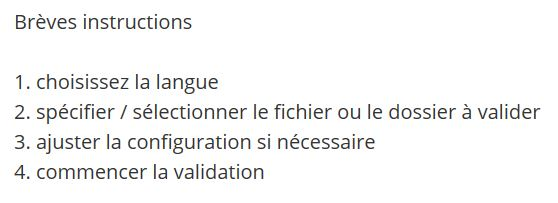
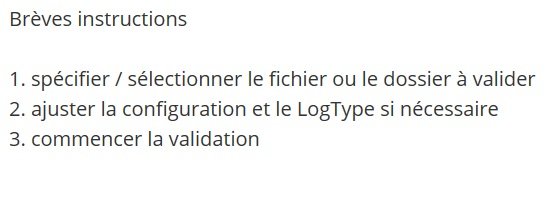
Prep KOST-Val 2.x
=================
- logType
- config
- siard
- JavaFX Gui (Prototyp)
- bug-fix

diff --git a/KOST-Val/src/main/java/ch/kostceco/tools/kostval/application.css b/KOST-Val/src/main/java/ch/kostceco/tools/kostval/application.css
@@ -21,7 +21,13 @@
 	-fx-border-color: LightGray ;
 	-fx-border-radius: 5;
 }
-
+.choice-box .menu-item:focused {
+  -fx-background-color: LimeGreen ;
+}
+.choice-box .context-menu {
+	-fx-mark-color: LimeGreen ;
+    -fx-background-color: LightGray ;
+}
 #wbv {
 	-fx-background-color: LightGray ;
 }

diff --git a/KOST-Val/src/main/java/ch/kostceco/tools/kostval/validation/modulesiard/impl/ValidationCheaderModuleImpl.java b/KOST-Val/src/main/java/ch/kostceco/tools/kostval/validation/modulesiard/impl/ValidationCheaderModuleImpl.java
@@ -61,6 +61,7 @@ public class ValidationCheaderModuleImpl extends ValidationModuleImpl
 
 	public static String NEWLINE = System.getProperty( "line.separator" );
 
+	@SuppressWarnings("resource")
 	@Override
 	public boolean validate( File valDatei, File directoryOfLogfile, Map<String, String> configMap,
 			Locale locale ) throws ValidationCheaderException
@@ -74,6 +75,17 @@ public class ValidationCheaderModuleImpl extends ValidationModuleImpl
 			showOnWork = true;
 			System.out.print( "C    " );
 			System.out.print( "\b\b\b\b\b" );
+		}
+
+		boolean siard10 = false;
+		boolean siard21 = false;
+		String siard10St = configMap.get( "siard10" );
+		if ( siard10St.equals( "1.0" ) ) {
+			siard10 = true;
+		}
+		String siard21St = configMap.get( "siard21" );
+		if ( siard21St.equals( "2.1" ) ) {
+			siard21 = true;
 		}
 
 		boolean result = true;
@@ -239,14 +251,28 @@ public class ValidationCheaderModuleImpl extends ValidationModuleImpl
 			Boolean version2 = FileUtils.readFileToString( metadataXml, "ISO-8859-1" )
 					.contains( "http://www.bar.admin.ch/xmlns/siard/2/metadata.xsd" );
 			if ( version1 ) {
-				getMessageService().logError(
-						getTextResourceService().getText( locale, MESSAGE_FORMATVALIDATION_VL, "v1.0" ) );
-			} else if ( version2 ) {
-				File versionDir = new File( pathToWorkDir2 + File.separator + "header" + File.separator
-						+ "siardversion" + File.separator + "2.1" );
-				if ( versionDir.exists() ) {
+				if ( siard10 ) {
 					getMessageService().logError(
-							getTextResourceService().getText( locale, MESSAGE_FORMATVALIDATION_VL, "v2.1" ) );
+							getTextResourceService().getText( locale, MESSAGE_FORMATVALIDATION_VL, "v1.0" ) );
+				} else {
+					getMessageService().logError( getTextResourceService().getText( locale,
+							MESSAGE_XML_MODUL_C_SIARD )
+							+ getTextResourceService().getText( locale, MESSAGE_XML_C_INVALID_VERSION, "1.0" ) );
+					return false;
+				}
+			} else if ( version2 ) {
+				if ( siard21 ) {
+					File versionDir = new File( pathToWorkDir2 + File.separator + "header" + File.separator
+							+ "siardversion" + File.separator + "2.1" );
+					if ( versionDir.exists() ) {
+						getMessageService().logError(
+								getTextResourceService().getText( locale, MESSAGE_FORMATVALIDATION_VL, "v2.1" ) );
+					}
+				} else {
+					getMessageService().logError( getTextResourceService().getText( locale,
+							MESSAGE_XML_MODUL_C_SIARD )
+							+ getTextResourceService().getText( locale, MESSAGE_XML_C_INVALID_VERSION, "2.1" ) );
+					return false;
 				}
 			}
 

diff --git a/KOST-Val/src/main/java/ch/kostceco/tools/kostval/service/impl/ConfigurationServiceImpl.java b/KOST-Val/src/main/java/ch/kostceco/tools/kostval/service/impl/ConfigurationServiceImpl.java
@@ -177,6 +177,16 @@ public class ConfigurationServiceImpl implements ConfigurationService
 			String siardvalidation = doc.getElementsByTagName( "siardvalidation" ).item( 0 )
 					.getTextContent();
 			configMap.put( "siardValidation", siardvalidation );
+			
+			// Gibt an ob siard 1.0 validiert werden soll
+			String siard10 = doc.getElementsByTagName( "siard10" ).item( 0 )
+					.getTextContent();
+			configMap.put( "siard10", siard10 );
+			
+			// Gibt an ob siard 2.1 validiert werden soll
+			String siard21 = doc.getElementsByTagName( "siard21" ).item( 0 )
+					.getTextContent();
+			configMap.put( "siard21", siard21 );
 
 			// Gibt an ob jp2 validiert werden soll
 			String jp2validation = doc.getElementsByTagName( "jp2validation" ).item( 0 ).getTextContent();

diff --git a/KOST-Val/src/main/java/ch/kostceco/tools/kostval/logging/MessageConstants.java b/KOST-Val/src/main/java/ch/kostceco/tools/kostval/logging/MessageConstants.java
@@ -184,6 +184,7 @@ public interface MessageConstants
 	String	MESSAGE_XML_C_METADATA_ERRORS									= "message.xml.c.metadata.errors";
 	String	MESSAGE_XML_C_METADATA_ORIGERRORS							= "message.xml.c.metadata.origerrors";
 	String	MESSAGE_XML_C_METADATA_NSFOUND								= "message.xml.c.metadata.nsfound";
+	String	MESSAGE_XML_C_INVALID_VERSION									= "message.xml.c.invalid.version";
 
 	// Modul D Meldungen
 	String	MESSAGE_XML_D_INVALID_FOLDER									= "message.xml.d.invalid.folder";

diff --git a/KOST-Val/src/main/java/ch/kostceco/tools/kostval/KOSTVal.java b/KOST-Val/src/main/java/ch/kostceco/tools/kostval/KOSTVal.java
@@ -160,7 +160,7 @@ public class KOSTVal implements MessageConstants
 		}
 
 		// Konfigurations Map erstellen (Zeitgewinn)
-		String logtype = args[2];
+		String logtype = args[3];
 		Map<String, String> configMap = kostval.getConfigurationService().configMap( locale, logtype );
 
 		Controllervalinit controller0 = (Controllervalinit) context.getBean( "controllervalinit" );
